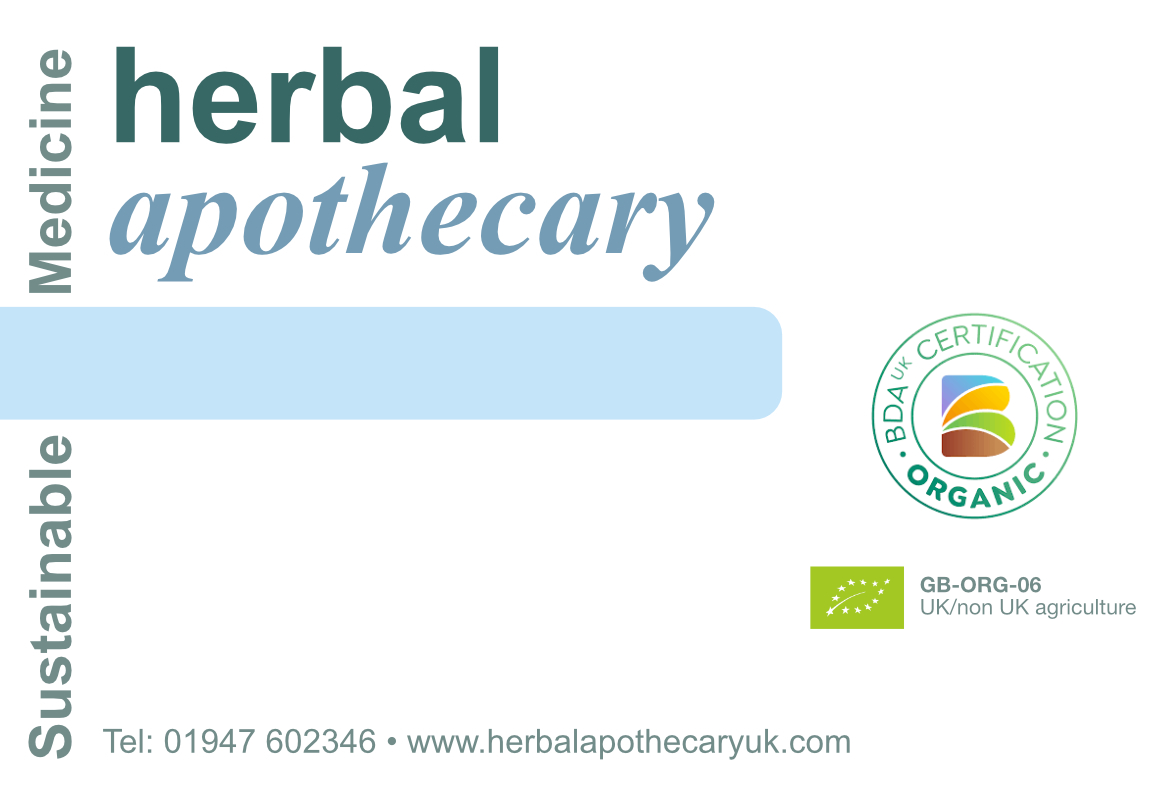
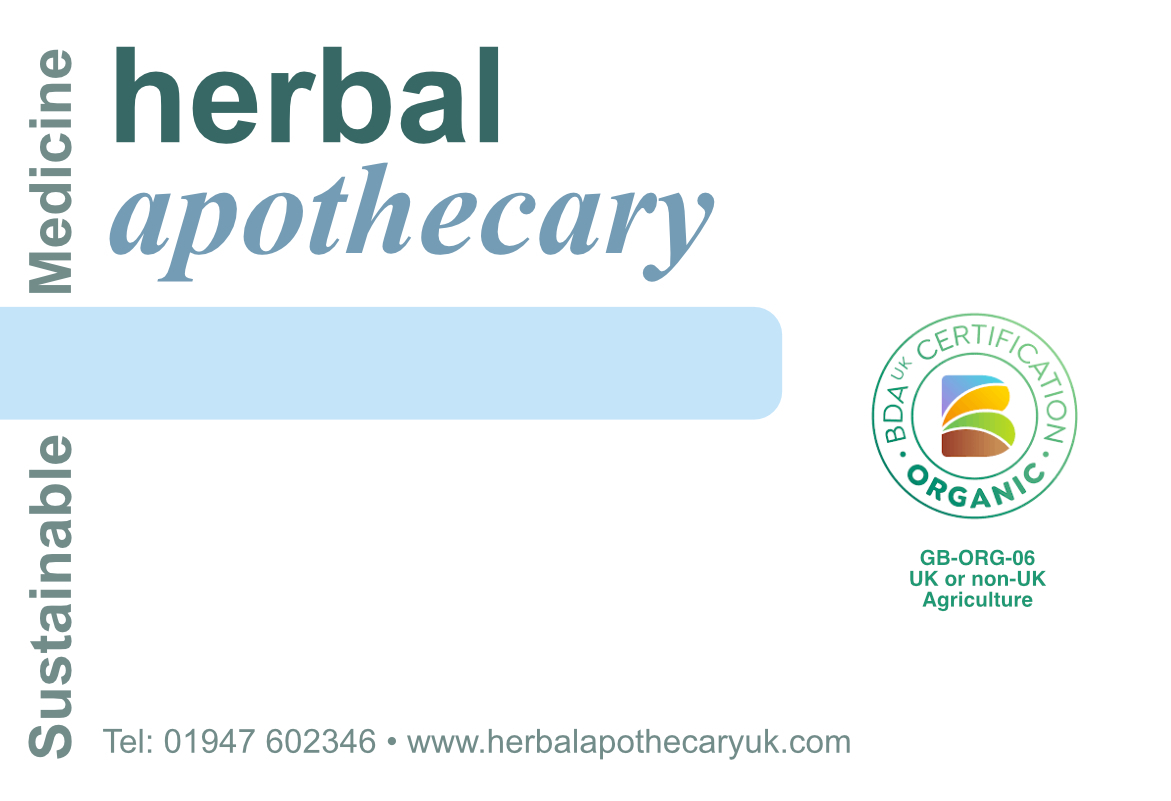
tweaks

Changed region(s): [[0.6763, 0.6866, 0.9838, 0.8115]]

diff --git a/perch/addons/apps/natures_laboratory/modes/labels/index.pre.php b/perch/addons/apps/natures_laboratory/modes/labels/index.pre.php
@@ -306,7 +306,7 @@ error_reporting(E_ALL);
 					    }else{
 						    $x = 6;
 						    $imgX = 44;
-						    $imgX2 = 51;
+						    $imgX2 = 65;
 					    }
 					    
 					    $first = array(44,55,70);
@@ -316,7 +316,7 @@ error_reporting(E_ALL);
 					    
 					    if($row==1){
 						    $imgY = 16;
-						    $imgY2 = 48;
+						    $imgY2 = 65;
 						    $y1 = 37;
 						    $y2 = 48;
 						    $y3 = 65;
@@ -357,10 +357,10 @@ error_reporting(E_ALL);
 						$pdf->Cell(90,10,"$productData[productType]   $productCode",0);
 						$pdf->SetFont('Arial','B',10);
 						$pdf->SetXY($x, $y2);
-						$pdf->MultiCell(40, 4, $productName, 0, "L");
+						$pdf->MultiCell(60, 4, $productName, 0, "L");
 						$pdf->SetXY($x, $y3);
 						$pdf->SetFont('Arial','B',5);
-						$pdf->MultiCell(40,2,"$productData[notes]",0);
+						$pdf->MultiCell(60,2,"$productData[notes]",0);
 						$pdf->SetFont('Arial','B',10);
 						$pdf->SetXY($x, $y4);
 						$pdf->Cell(90,2,"$batch        $bbe     $size",0);

diff --git a/perch/addons/apps/natures_laboratory/modes/coa-products/spec/edit/index.post.php b/perch/addons/apps/natures_laboratory/modes/coa-products/spec/edit/index.post.php
@@ -67,6 +67,7 @@
 		$plantList[] = array('label'=>'Resin', 'value'=>'Resin');
 		$plantList[] = array('label'=>'Berries', 'value'=>'Berries');
 		$plantList[] = array('label'=>'Tops & Berries', 'value'=>'Tops & Berries');
+		$plantList[] = array('label'=>'Moss', 'value'=>'Moss');
 		echo $Form->select_field("plantPart","Plant Part",$plantList,$details['plantPart']);
 		
 		echo $Form->text_field("strengthVolume","Strength/Volume",$details['strengthVolume']);

diff --git a/perch/addons/apps/natures_laboratory/modes/coa-products/spec/add/index.post.php b/perch/addons/apps/natures_laboratory/modes/coa-products/spec/add/index.post.php
@@ -67,6 +67,7 @@
 		$plantList[] = array('label'=>'Resin', 'value'=>'Resin');
 		$plantList[] = array('label'=>'Berries', 'value'=>'Berries');
 		$plantList[] = array('label'=>'Tops & Berries', 'value'=>'Tops & Berries');
+		$plantList[] = array('label'=>'Moss', 'value'=>'Moss');
 		echo $Form->select_field("plantPart","Plant Part",$plantList,'');
 		
 		echo $Form->text_field("strengthVolume","Strength/Volume",'');
